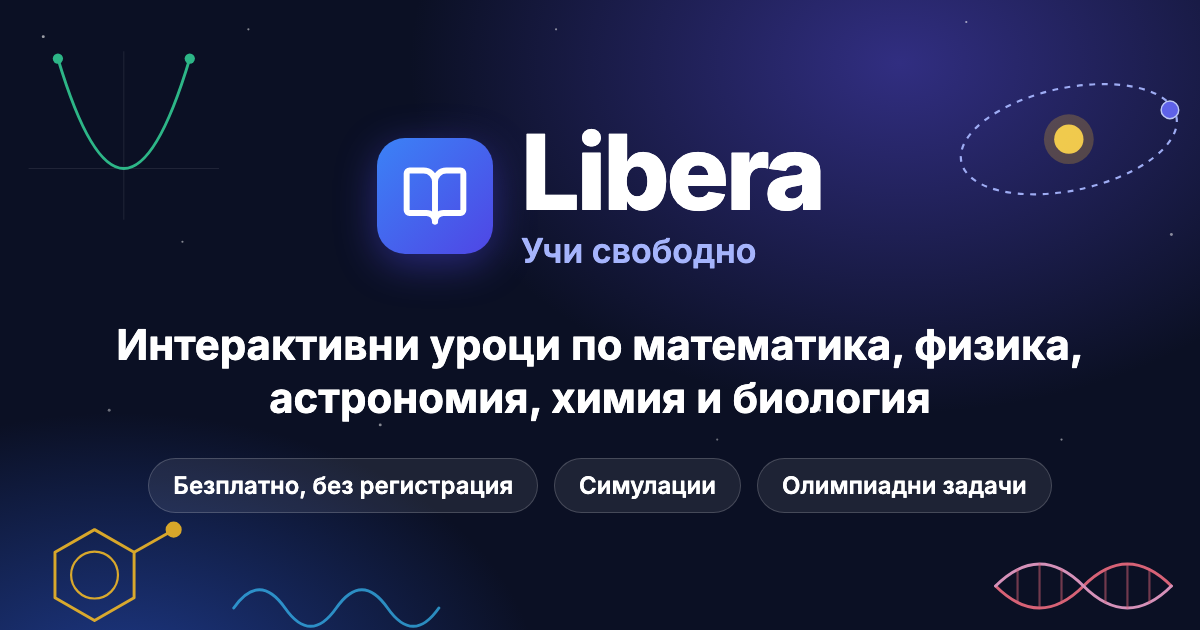
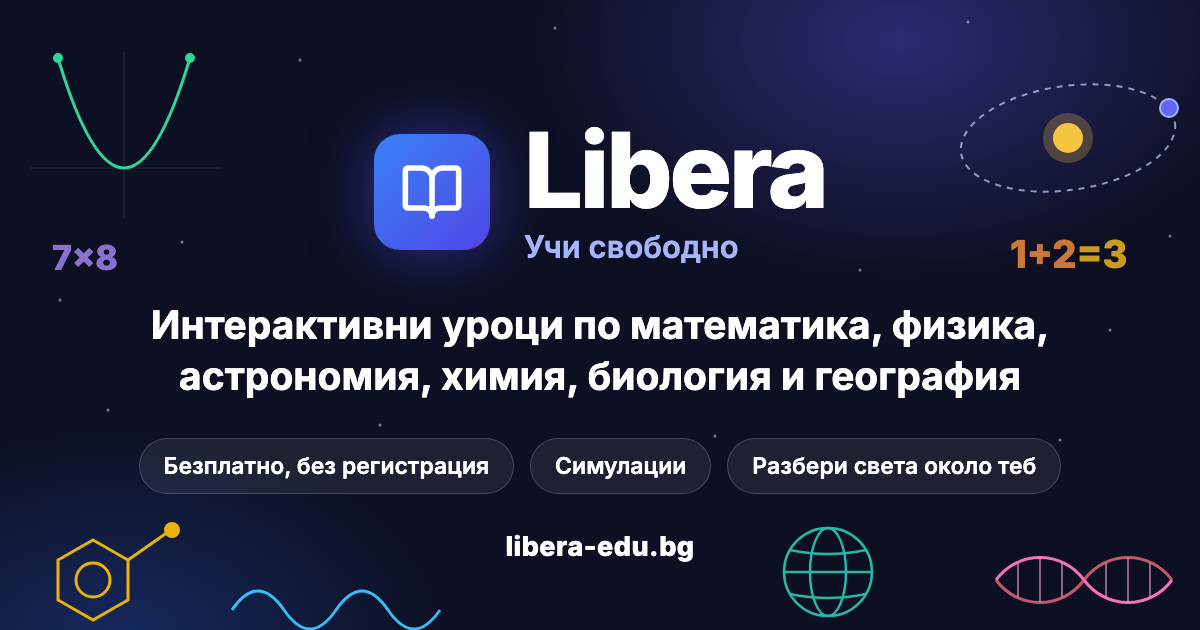
Update domain and image

diff --git a/scripts/og-image.html b/scripts/og-image.html
@@ -1,0 +1,76 @@
+<!doctype html>
+<html lang="bg"><head><meta charset="utf-8">
+<link href="https://fonts.googleapis.com/css2?family=Inter:wght@500;600;700;800&display=swap&subset=cyrillic" rel="stylesheet">
+<style>
+*{margin:0;padding:0;box-sizing:border-box}
+html,body{width:1200px;height:630px;overflow:hidden}
+body{font-family:Inter,sans-serif;color:#fff;position:relative;
+ background:
+  radial-gradient(520px 340px at 900px 40px,#2c2a72 0%,transparent 70%),
+  radial-gradient(460px 300px at 120px 640px,#16295e 0%,transparent 70%),
+  #0d1022}
+svg.deco{position:absolute;inset:0}
+.top{position:absolute;top:118px;left:0;right:0;display:flex;justify-content:center;align-items:center;gap:34px}
+.logo{width:116px;height:116px;border-radius:26px;background:linear-gradient(135deg,#3b82f6,#4f46e5);display:flex;align-items:center;justify-content:center;box-shadow:0 0 60px rgba(79,70,229,.55)}
+.name{font-size:104px;font-weight:800;letter-spacing:-3px;line-height:1}
+.tag{font-size:31px;font-weight:600;color:#a5b4fc;margin-top:6px}
+h1{position:absolute;top:300px;left:0;right:0;text-align:center;font-size:39px;font-weight:700;line-height:1.3}
+.chips{position:absolute;top:438px;left:0;right:0;display:flex;justify-content:center;gap:16px}
+.chip{font-size:23px;font-weight:600;padding:13px 24px;border-radius:999px;background:rgba(255,255,255,.07);border:1px solid rgba(255,255,255,.18)}
+.url{position:absolute;top:530px;left:0;right:0;text-align:center;font-size:27px;font-weight:600;color:#c7d2fe;letter-spacing:.5px}
+.url b{color:#fff}
+</style></head><body>
+<svg class="deco" width="1200" height="630">
+ <g fill="#fff" opacity=".45">
+  <circle cx="555" cy="28" r="1.5"/><circle cx="968" cy="22" r="1.5"/><circle cx="182" cy="242" r="1.5"/>
+  <circle cx="1170" cy="236" r="1.5"/><circle cx="108" cy="410" r="1.5"/><circle cx="715" cy="436" r="1.5"/>
+  <circle cx="1060" cy="440" r="1.5"/><circle cx="380" cy="425" r="1.5"/><circle cx="860" cy="270" r="1.5"/>
+  <circle cx="300" cy="60" r="1.5"/><circle cx="1110" cy="330" r="1.5"/><circle cx="60" cy="300" r="1.5"/>
+ </g>
+ <!-- parabola -->
+ <g stroke="#ffffff" stroke-opacity=".12"><line x1="30" y1="168" x2="220" y2="168"/><line x1="124" y1="52" x2="124" y2="218"/></g>
+ <path d="M58 58 Q124 278 190 58" fill="none" stroke="#34d399" stroke-width="3"/>
+ <circle cx="58" cy="58" r="5" fill="#34d399"/><circle cx="190" cy="58" r="5" fill="#34d399"/>
+ <!-- orbit -->
+ <ellipse cx="1068" cy="138" rx="108" ry="52" transform="rotate(-8 1068 138)" fill="none" stroke="#c7d2fe" stroke-opacity=".7" stroke-width="2" stroke-dasharray="6 6"/>
+ <circle cx="1068" cy="138" r="25" fill="#f5c542" fill-opacity=".25"/><circle cx="1068" cy="138" r="15" fill="#f5c542"/>
+ <circle cx="1169" cy="108" r="9" fill="#6366f1" stroke="#a5b4fc" stroke-width="2"/>
+ <!-- benzene -->
+ <g fill="none" stroke="#eab308" stroke-width="3">
+  <polygon points="93,540 128,560 128,600 93,620 58,600 58,560"/><circle cx="93" cy="580" r="17"/><line x1="128" y1="560" x2="168" y2="532"/>
+ </g><circle cx="172" cy="530" r="8" fill="#eab308"/>
+ <!-- wave -->
+ <path d="M232 610 q26 -38 52 0 t52 0 t52 0 t52 0" fill="none" stroke="#38bdf8" stroke-width="3"/>
+ <!-- globe -->
+ <g transform="translate(828 572)" fill="none" stroke="#2dd4bf" stroke-width="2.5" opacity=".85">
+  <circle r="44"/><ellipse rx="18" ry="44"/><line x1="-44" y1="0" x2="44" y2="0"/>
+  <path d="M-38 -22 Q0 -14 38 -22"/><path d="M-38 22 Q0 30 38 22"/>
+ </g>
+ <!-- dna -->
+ <g transform="translate(996 580)" stroke-width="3" fill="none">
+  <path d="M0 0 C 22 -30 66 -30 88 0 S 154 30 176 0" stroke="#f472b6"/>
+  <path d="M0 0 C 22 30 66 30 88 0 S 154 -30 176 0" stroke="#fb7185" stroke-opacity=".75"/>
+  <g stroke="#f9a8d4" stroke-opacity=".55" stroke-width="2">
+   <line x1="22" y1="-17" x2="22" y2="17"/><line x1="44" y1="-22" x2="44" y2="22"/><line x1="66" y1="-17" x2="66" y2="17"/>
+   <line x1="110" y1="-17" x2="110" y2="17"/><line x1="132" y1="-22" x2="132" y2="22"/><line x1="154" y1="-17" x2="154" y2="17"/>
+  </g>
+ </g>
+ <!-- arithmetic -->
+ <g font-family="Inter" font-weight="800" font-size="38" opacity=".8">
+  <text x="1010" y="268" fill="#fb923c">1+2<tspan fill="#fbbf24">=3</tspan></text>
+  <text x="52" y="270" fill="#a78bfa" font-size="34">7×8</text>
+ </g>
+</svg>
+
+<div class="top">
+ <div class="logo"><svg width="64" height="64" viewBox="0 0 24 24" fill="none" stroke="#fff" stroke-width="2.1" stroke-linecap="round" stroke-linejoin="round"><path d="M12 7v14"/><path d="M3 18a1 1 0 0 1-1-1V4a1 1 0 0 1 1-1h5a4 4 0 0 1 4 4 4 4 0 0 1 4-4h5a1 1 0 0 1 1 1v13a1 1 0 0 1-1 1h-6a3 3 0 0 0-3 3 3 3 0 0 0-3-3z"/></svg></div>
+ <div><div class="name">Libera</div><div class="tag">Учи свободно</div></div>
+</div>
+<h1>Интерактивни уроци по математика, физика,<br>астрономия, химия, биология и география</h1>
+<div class="chips">
+ <div class="chip">Безплатно, без регистрация</div>
+ <div class="chip">Симулации</div>
+ <div class="chip">Разбери света около теб</div>
+</div>
+<div class="url"><b>libera-edu.bg</b></div>
+</body></html>

diff --git a/index.html b/index.html
@@ -16,14 +16,14 @@
     />
     <title>Libera — интерактивни уроци по математика, физика, астрономия, химия, биология и география</title>
     <meta name="description" content="Безплатни интерактивни уроци на български по математика, физика, астрономия, химия, биология и география: симулации, решени примери, тестове и олимпиадни задачи на три нива." />
-    <link rel="canonical" href="https://libera-nine.vercel.app/" />
+    <link rel="canonical" href="https://www.libera-edu.bg/" />
     <meta property="og:type" content="website" />
     <meta property="og:site_name" content="Libera" />
     <meta property="og:locale" content="bg_BG" />
     <meta property="og:title" content="Libera — интерактивни уроци по математика, физика, астрономия, химия, биология и география" />
     <meta property="og:description" content="Безплатни интерактивни уроци на български по математика, физика, астрономия, химия, биология и география: симулации, решени примери, тестове и олимпиадни задачи на три нива." />
-    <meta property="og:url" content="https://libera-nine.vercel.app/" />
-    <meta property="og:image" content="https://libera-nine.vercel.app/og-image.png" />
+    <meta property="og:url" content="https://www.libera-edu.bg/" />
+    <meta property="og:image" content="https://www.libera-edu.bg/og-image.png" />
     <meta property="og:image:width" content="1200" />
     <meta property="og:image:height" content="630" />
     <meta property="og:image:alt" content="Libera — интерактивни уроци по математика, физика, астрономия, химия, биология и география" />

diff --git a/src/pages.ts b/src/pages.ts
@@ -2,7 +2,7 @@
 // Използват се от приложението (Seo.tsx) и при build (vite.config.js),
 // който генерира отделен index.html за всяка страница и sitemap.xml.
 
-export const SITE_URL = 'https://libera-nine.vercel.app';
+export const SITE_URL = 'https://www.libera-edu.bg';
 export const SITE_NAME = 'Libera';
 
 export interface PageMeta {

diff --git a/README.md b/README.md
@@ -1,6 +1,6 @@
 # Libera – учи свободно
 
-Интерактивни уроци на български език по **математика**, **физика**, **астрономия**, **химия**, **биология** и **география** за ученици, включително за подготовка за олимпиади. Всеки урок съчетава кратко обяснение с „лаборатории“ – интерактивни симулации, в които ученикът сам променя параметрите и вижда резултата. Сайтът е безплатен и без регистрация: https://libera-nine.vercel.app
+Интерактивни уроци на български език по **математика**, **физика**, **астрономия**, **химия**, **биология** и **география** за ученици, включително за подготовка за олимпиади. Всеки урок съчетава кратко обяснение с „лаборатории“ – интерактивни симулации, в които ученикът сам променя параметрите и вижда резултата. Сайтът е безплатен и без регистрация: https://www.libera-edu.bg
 
 Сайтът още се разработва – лента най-горе на всяка страница (`DevBanner.tsx`) казва това и подканва да ни пишат за грешки на ninelibera@gmail.com.
 

diff --git a/LICENSE-CONTENT.md b/LICENSE-CONTENT.md
@@ -21,7 +21,7 @@ https://creativecommons.org/licenses/by-nc-sa/4.0/deed.bg (пълен текст
 Можеш свободно да копираш, разпространяваш и преработваш съдържанието – например да ползваш задачите
 в час, да ги разпечатваш или да ги включиш в свои материали – при следните условия:
 
-- **Признание** – посочи „Libera“ с връзка към https://libera-nine.vercel.app и към лиценза и отбележи,
+- **Признание** – посочи „Libera“ с връзка към https://www.libera-edu.bg и към лиценза и отбележи,
   ако си правил промени.
 - **Некомерсиално** – не го ползвай с търговска цел (например в платени курсове, учебници или сайтове).
   За търговско ползване пиши на ninelibera@gmail.com.
